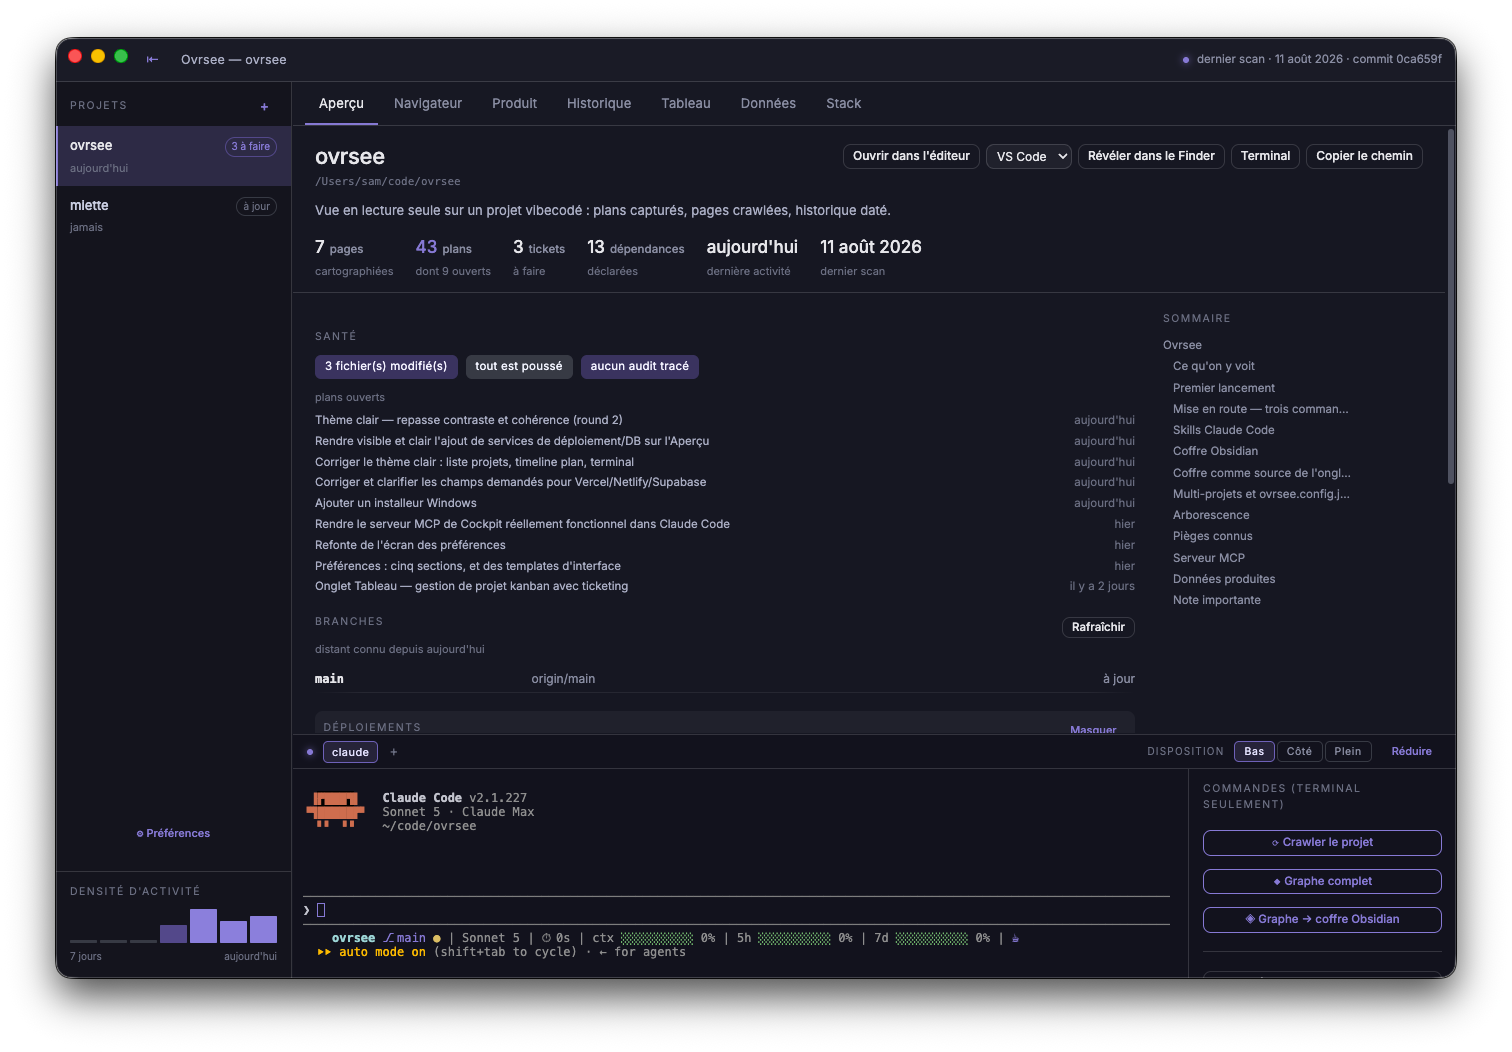
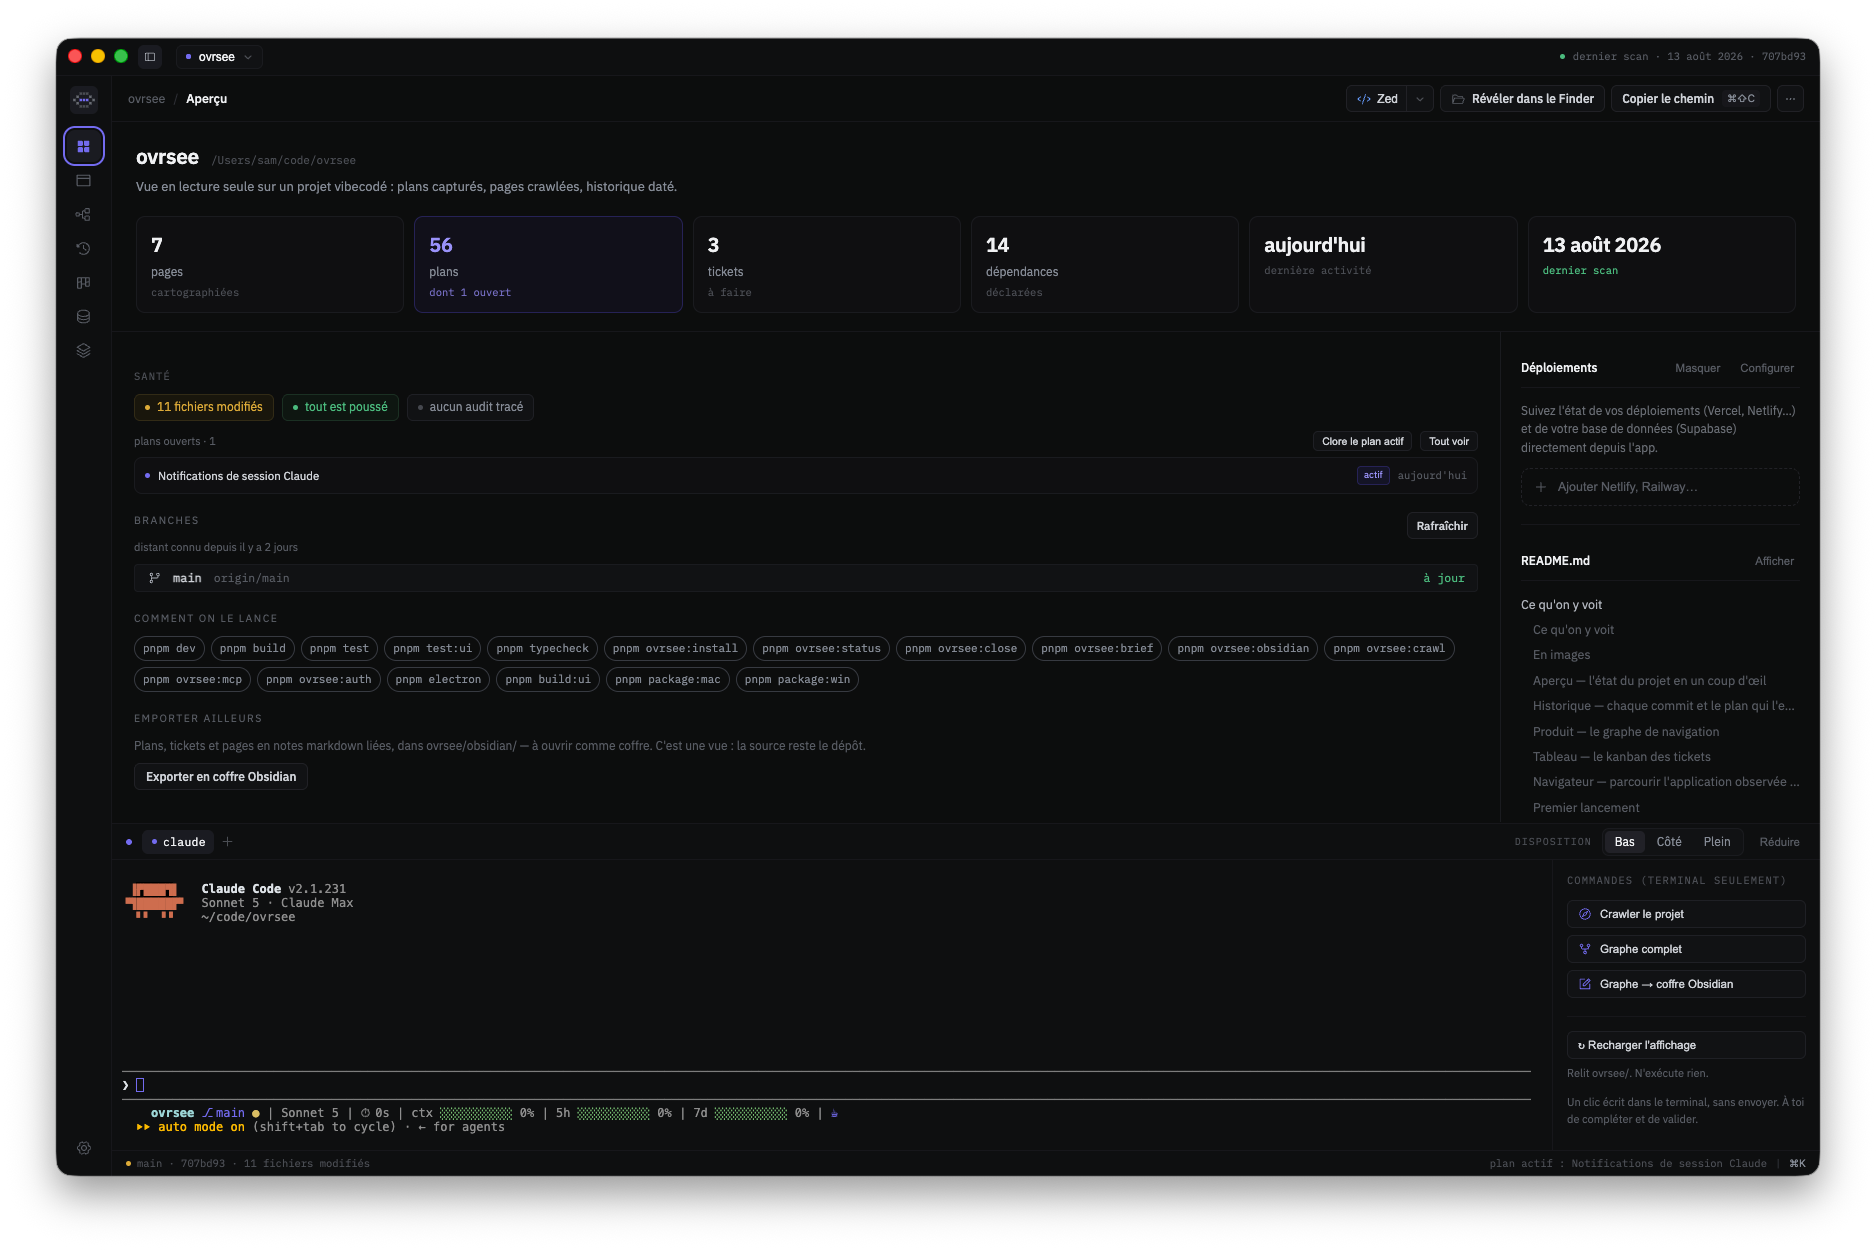
docs: met à jour les captures du README (7 onglets)
Remplace les 5 captures existantes et ajoute Données et Stack, qui n'en avaient
pas. Réordonne les sections dans l'ordre du rail et ajuste les légendes à ce que
les nouvelles captures montrent.

diff --git a/README.md b/README.md
@@ -39,26 +39,9 @@ Contexte complet : [`cadrage-ovrsee.md`](./cadrage-ovrsee.md)
 ### Aperçu — l'état du projet en un coup d'œil
 ![Onglet Aperçu](./docs/screenshots/apercu.png)
 
-Compteurs (pages, plans, tickets, dépendances), plans ouverts, statut des branches, et le
-terminal intégré avec ses commandes rapides (crawl, graphe, export Obsidian).
-
-### Historique — chaque commit et le plan qui l'explique
-![Onglet Historique](./docs/screenshots/historique.png)
-
-La chronologie du projet : un plan est clos par le commit qui l'exécute, chaque ticket lié
-apparaît avec son statut.
-
-### Produit — le graphe de navigation
-![Onglet Produit](./docs/screenshots/produit.png)
-
-La carte des pages du projet crawlé, miniatures de captures à l'appui, avec un panneau de
-détail par page et l'historique de ses captures précédentes.
-
-### Tableau — le kanban des tickets
-![Onglet Tableau](./docs/screenshots/tableau.png)
-
-Un fichier par ticket dans `ovrsee/tickets/`, colonnes réglées dans `ovrsee/board.json`.
-Écrit ici comme depuis le terminal intégré.
+Compteurs (pages, plans, tickets, dépendances), santé du dépôt, plans ouverts, statut des
+branches, commandes du projet, et le terminal intégré avec ses raccourcis (crawl, graphe,
+export Obsidian). À droite, le panneau des déploiements et le sommaire du `README.md`.
 
 ### Navigateur — parcourir l'application observée sans quitter l'ovrsee
 ![Onglet Navigateur](./docs/screenshots/navigateur.png)
@@ -66,9 +49,37 @@ Un fichier par ticket dans `ovrsee/tickets/`, colonnes réglées dans `ovrsee/bo
 Un navigateur intégré (barre d'adresse, DevTools, sélecteur d'élément) pour inspecter
 l'application observée directement depuis l'interface.
 
-**Deux autres onglets, sans capture pour l'instant :** **Données** (tables et relations,
-lues depuis Graphify ou un coffre Obsidian) et **Stack** (dépendances et choix techniques,
-alimentés par les commentaires `WHY:` de Graphify).
+### Produit — le graphe de navigation
+![Onglet Produit](./docs/screenshots/produit.png)
+
+La carte des pages du projet crawlé, miniatures de captures à l'appui, avec un panneau de
+détail par page et l'historique de ses captures précédentes. Deux dates se comparent.
+
+### Historique — chaque commit et le plan qui l'explique
+![Onglet Historique](./docs/screenshots/historique.png)
+
+La chronologie du projet : un plan est clos par le commit qui l'exécute, chaque ticket lié
+apparaît avec son statut. Filtrable par plans, tickets et commits hors plan.
+
+### Tableau — le kanban des tickets
+![Onglet Tableau](./docs/screenshots/tableau.png)
+
+Un fichier par ticket dans `ovrsee/tickets/`, colonnes réglées dans `ovrsee/board.json`.
+Écrit ici comme depuis le terminal intégré. Les epics affichent leur avancement et leurs
+tickets enfants.
+
+### Données — les tables du projet
+![Onglet Données](./docs/screenshots/donnees.png)
+
+L'introspection reconstruite à chaque commit, lue depuis Graphify ou un coffre Obsidian :
+tables, colonnes, qui s'en sert, et le niveau de confiance de l'extraction. L'ovrsee ne
+recalcule rien.
+
+### Stack — les dépendances et leur raison d'être
+![Onglet Stack](./docs/screenshots/stack.png)
+
+Production et développement séparés, chacune avec sa version et la raison écrite en
+commentaire `WHY:` au-dessus de son import. Ce qui n'en a pas est signalé.
 
 ## Premier lancement
 

diff --git a/README.en.md b/README.en.md
@@ -38,26 +38,9 @@ Full context (French): [`cadrage-ovrsee.md`](./cadrage-ovrsee.md)
 ### Overview — project state at a glance
 ![Overview tab](./docs/screenshots/apercu.png)
 
-Counters (pages, plans, tickets, dependencies), open plans, branch status, and the
-integrated terminal with quick commands (crawl, graph, Obsidian export).
-
-### History — every commit and the plan behind it
-![History tab](./docs/screenshots/historique.png)
-
-The project timeline: a plan is closed by the commit that executes it, each linked
-ticket shows up with its status.
-
-### Product — the navigation graph
-![Product tab](./docs/screenshots/produit.png)
-
-A map of the crawled project's pages, with screenshot thumbnails, a detail panel
-per page, and its capture history.
-
-### Board — ticket kanban
-![Board tab](./docs/screenshots/tableau.png)
-
-One file per ticket in `ovrsee/tickets/`, columns set in `ovrsee/board.json`.
-Written here just like from the integrated terminal.
+Counters (pages, plans, tickets, dependencies), repo health, open plans, branch status,
+project commands, and the integrated terminal with its shortcuts (crawl, graph, Obsidian
+export). On the right, the deployments panel and the `README.md` outline.
 
 ### Navigator — browse the observed app without leaving Ovrsee
 ![Navigator tab](./docs/screenshots/navigateur.png)
@@ -65,9 +48,36 @@ Written here just like from the integrated terminal.
 An embedded browser (address bar, DevTools, element picker) to inspect the
 observed application directly from the interface.
 
-**Two more tabs, no screenshot yet:** **Data** (tables and relations, read from
-Graphify or an Obsidian vault) and **Stack** (dependencies and technical choices,
-sourced from Graphify's `WHY:` comments).
+### Product — the navigation graph
+![Product tab](./docs/screenshots/produit.png)
+
+A map of the crawled project's pages, with screenshot thumbnails, a detail panel
+per page, and its capture history. Two dates can be compared.
+
+### History — every commit and the plan behind it
+![History tab](./docs/screenshots/historique.png)
+
+The project timeline: a plan is closed by the commit that executes it, each linked
+ticket shows up with its status. Filterable by plans, tickets, and off-plan commits.
+
+### Board — ticket kanban
+![Board tab](./docs/screenshots/tableau.png)
+
+One file per ticket in `ovrsee/tickets/`, columns set in `ovrsee/board.json`.
+Written here just like from the integrated terminal. Epics show their progress and
+their child tickets.
+
+### Data — the project's tables
+![Data tab](./docs/screenshots/donnees.png)
+
+Introspection rebuilt on every commit, read from Graphify or an Obsidian vault: tables,
+columns, who uses them, and how confident the extraction is. Ovrsee recomputes nothing.
+
+### Stack — dependencies and why they are there
+![Stack tab](./docs/screenshots/stack.png)
+
+Production and development split apart, each with its version and the reason written as a
+`WHY:` comment above its import. Anything missing one is flagged.
 
 ## First launch
 
